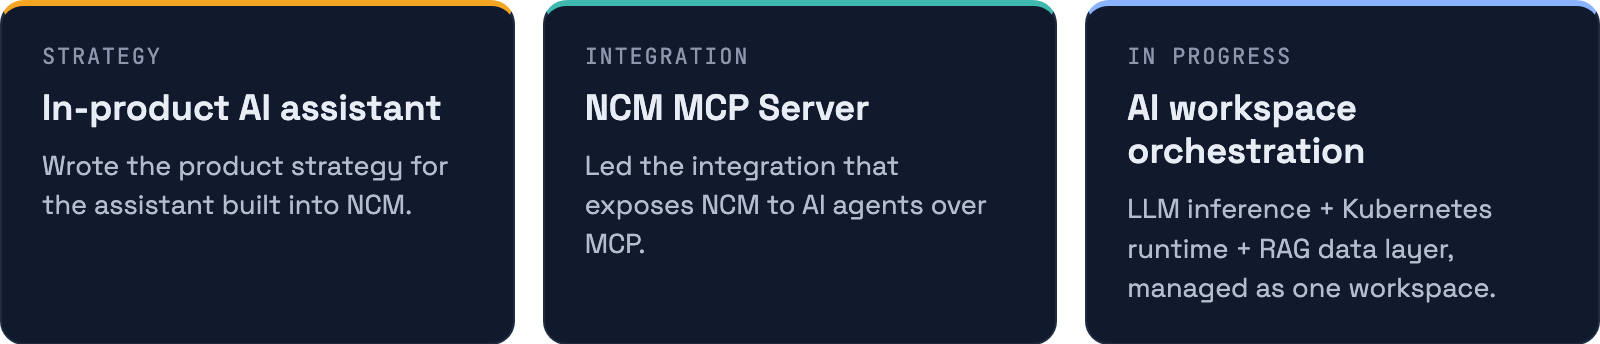
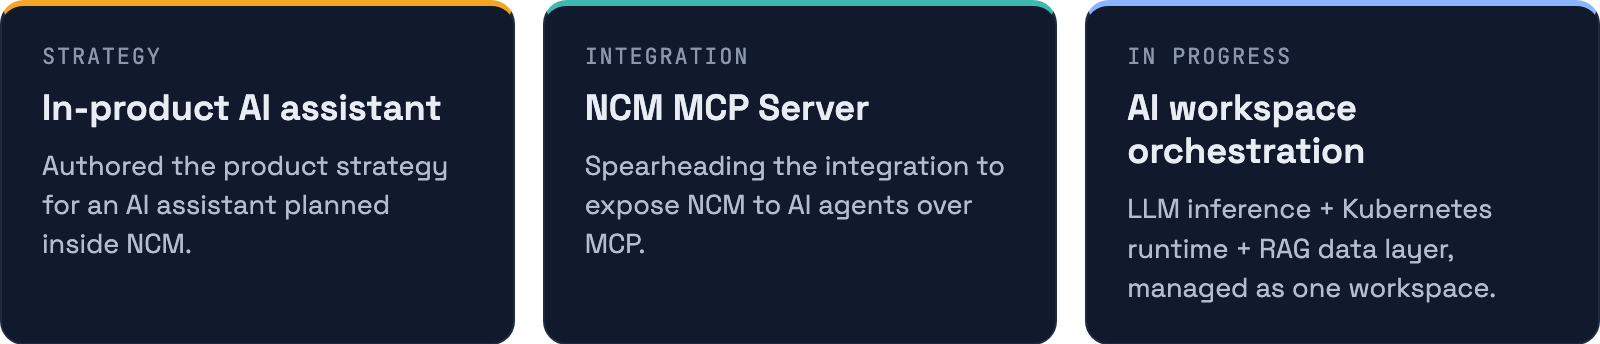
Reword Nutanix cards to reflect work that is not yet in production

diff --git a/assets/src/nutanix.html b/assets/src/nutanix.html
@@ -11,7 +11,7 @@ html,body{margin:0;width:800px;background:transparent}
 .d{font:400 13.5px/1.45 'Space Grotesk',sans-serif;color:var(--sub)}
 .o{margin-top:auto;font:400 12px 'JetBrains Mono',monospace;color:var(--acc)}
 </style></head><body><div class="g" id="root">
-<div class="c" style="--k:var(--acc)"><div class="l">Strategy</div><div class="t">In-product AI assistant</div><div class="d">Wrote the product strategy for the assistant built into NCM.</div></div>
-<div class="c" style="--k:var(--teal)"><div class="l">Integration</div><div class="t">NCM MCP Server</div><div class="d">Led the integration that exposes NCM to AI agents over MCP.</div></div>
+<div class="c" style="--k:var(--acc)"><div class="l">Strategy</div><div class="t">In-product AI assistant</div><div class="d">Authored the product strategy for an AI assistant planned inside NCM.</div></div>
+<div class="c" style="--k:var(--teal)"><div class="l">Integration</div><div class="t">NCM MCP Server</div><div class="d">Spearheading the integration to expose NCM to AI agents over MCP.</div></div>
 <div class="c" style="--k:var(--blue)"><div class="l">In progress</div><div class="t">AI workspace orchestration</div><div class="d">LLM inference + Kubernetes runtime + RAG data layer, managed as one workspace.</div></div>
 </div><script>addEventListener('load',()=>setTimeout(()=>{document.documentElement.dataset.h=document.getElementById('root').getBoundingClientRect().height},300));if(location.hash=='#light')document.documentElement.className='light'</script></body></html>

diff --git a/docs/index.html b/docs/index.html
@@ -200,11 +200,11 @@ footer{padding:36px 0 56px;color:var(--mut);font:400 12.5px var(--mono)}
   <div class="cards">
     <article class="card" style="--k:var(--acc)">
       <div class="l">Strategy</div><div class="t">In-product AI assistant</div>
-      <p>Wrote the product strategy for the assistant built into NCM.</p>
+      <p>Authored the product strategy for an AI assistant planned inside NCM.</p>
     </article>
     <article class="card" style="--k:var(--teal)">
       <div class="l">Integration</div><div class="t">NCM MCP Server</div>
-      <p>Led the integration that exposes NCM to AI agents over MCP.</p>
+      <p>Spearheading the integration to expose NCM to AI agents over MCP.</p>
     </article>
     <article class="card" style="--k:var(--blue)">
       <div class="l">In progress</div><div class="t">AI workspace orchestration</div>

diff --git a/README.md b/README.md
@@ -49,7 +49,7 @@ Senior Product Manager on **NCM**, a $200M+ ARR product serving 6,000+ customers
 
   <source media="(prefers-color-scheme: light)" srcset="assets/nutanix-light.png">
 
-  <img src="assets/nutanix-light.png" alt="Three Nutanix work items. Strategy: In-product AI assistant. Wrote the product strategy for the assistant built into NCM. Integration: NCM MCP Server. Led the integration that exposes NCM to AI agents over MCP. In progress: AI workspace orchestration. LLM inference + Kubernetes runtime + RAG data layer, managed as one workspace." width="100%">
+  <img src="assets/nutanix-light.png" alt="Three Nutanix work items. Strategy: In-product AI assistant. Authored the product strategy for an AI assistant planned inside NCM. Integration: NCM MCP Server. Spearheading the integration to expose NCM to AI agents over MCP. In progress: AI workspace orchestration. LLM inference + Kubernetes runtime + RAG data layer, managed as one workspace." width="100%">
 
 </picture>
 
